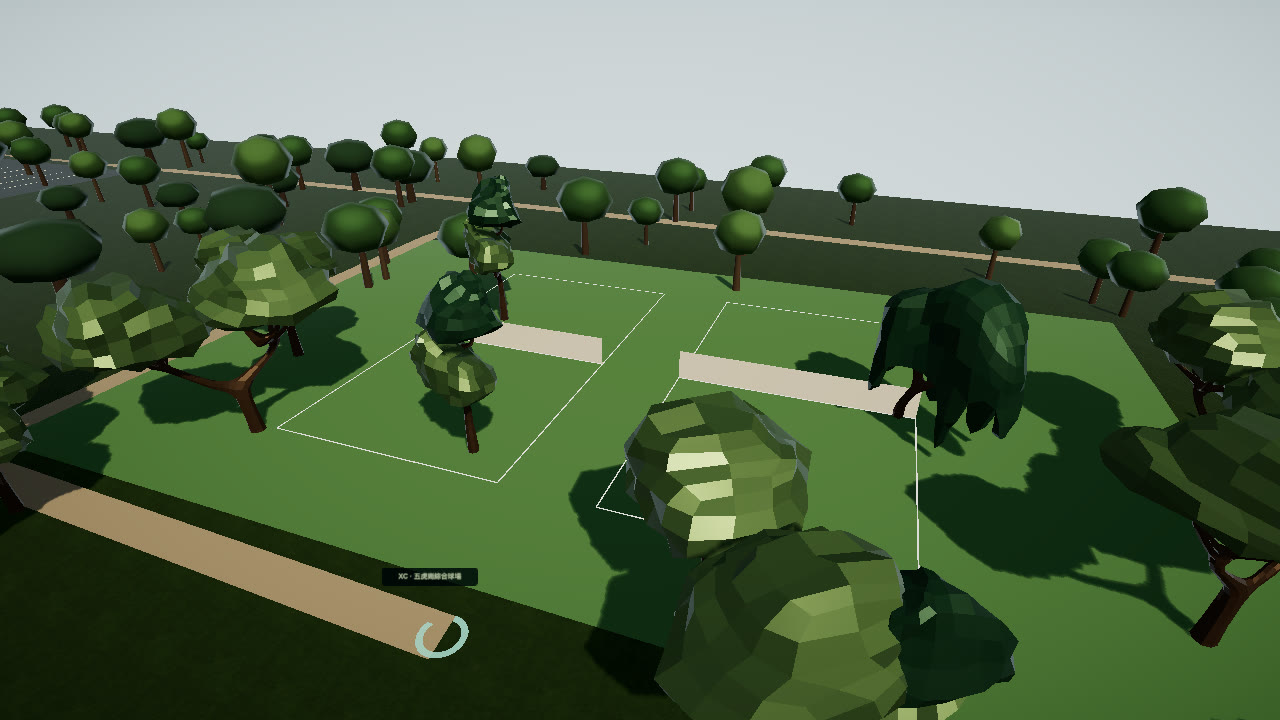
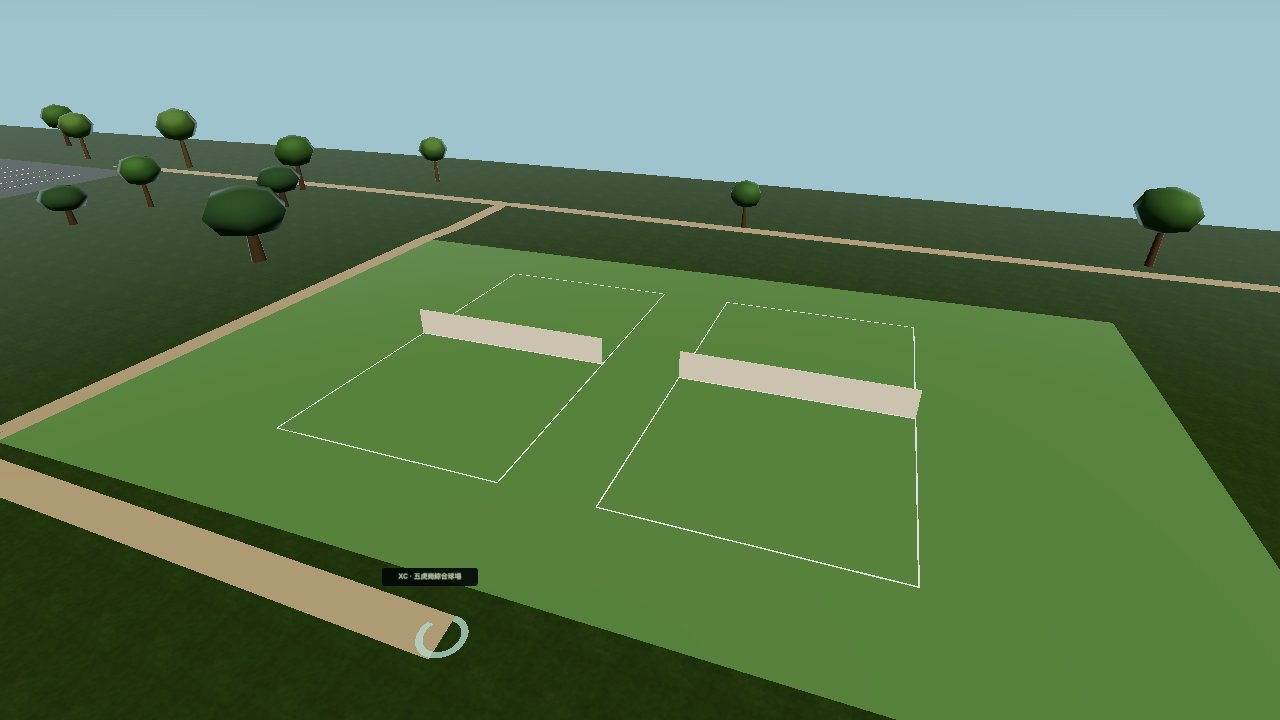
Record the two-court markings on this host.
The Wuhu shot is from this machine. Wet court colours stay, and the lines sit inside the grass.

diff --git a/docs/integration/HANDOFF.md b/docs/integration/HANDOFF.md
@@ -4,18 +4,18 @@
 
 ## 現在
 
-- 這次讓沒有貼圖的球場、停車場和跑道在雨後把顏色乘小。接到 `origin/main` `7c85a42`。遊戲程式是 `560f21d`。
-- 晴天顏色不變。1280×720 與 390×780 都看得到五虎崗雨後較深，樹仍在場外。不是實測日照。這一輪不畫 PR #135 的球場線。
-- 跨系統路線在 `http://127.0.0.1:8147/` 通過：大門經驗 20、筆記 19；補給後經驗 44、筆記 21、學期期中；突襲小考 65→45；第二客戶端看到期中；`revision_conflict`；斷線時雲端經驗停在 47；登出 401。`pageErrors` 空。
-- PR #122 現在是 `494989e`。對 `main` 的差只有 `docs/full-integration`、他們的路線腳本和兩行 CSS。不要單獨合併，也不要帶進 `docs/full-integration`。
+- 這次把五虎崗畫成兩塊有邊線、中線和球網的場，排球場有一圈邊線。接到 `origin/main` `9dd707e`。遊戲程式是 `27ceb69`。
+- 標線都在草皮裡面。1280×720 與 390×780 都看得到。雨後草皮仍較深，標線還在。樹仍在場外。標線尺寸仍是 estimated。
+- 跨系統路線在 `http://127.0.0.1:8148/` 通過：大門經驗 20、筆記 19；補給後經驗 44、筆記 21、學期期中；突襲小考 65→45；第二客戶端看到期中；`revision_conflict`；斷線時雲端經驗停在 47；登出 401。`pageErrors` 空。
+- PR #122 現在是 `2f7667b`。遊戲差是測試用的 `getCamera`、他們的七區路點腳本，以及窄螢幕互動鈕 `bottom: 176px`。觸控窄螢幕後面那條規則仍是 `100px`。路點本身已經在主遊戲裡。不要單獨合併，也不要帶進 `docs/full-integration`。
 
-## 本輪已驗證（雨後場地）
+## 本輪已驗證（綜合球場標線）
 
-`node --test scripts/wet-surface.test.mjs` 通過。`npm test` 311 通過。`node --experimental-transform-types scripts/integration-route.mjs` 走 `http://127.0.0.1:8147/`。幀時間是 SwiftShader。不是實測日照。
+`node --test scripts/court-lines.test.mjs` 通過。`npm test` 312 通過。`node --experimental-transform-types scripts/integration-route.mjs` 走 `http://127.0.0.1:8148/`。幀時間是 SwiftShader。標線尺寸是 estimated。
 
 ## 下一步
 
-先 `git fetch`。雨後場地已在這條整合分支，遊戲程式是 `560f21d`。靜態產物是 `AdventureApp-Bw3-LFcW.js`。PR #32 的 `1fc5887` 仍不合併。整合 PR 是 #147。來源 `41771bb` 不是祖先，不要單獨合併 PR #142。不要單獨合併 PR #122。PR #146、#144、#143、#141、#140、#138、#139、#131、#137、#128、#133、#129、#110、#108、#107、#105、#102、#101、#99、#97、#96、#93、#91、#90、#88、#86、#85、#82、#80、#79、#77、#75、#73、#72、#70、#68、#67、#65、#63、#61、#59、#56、#54、#53、#51 的程式已經在更早的整合裡，也不要再單獨合併。下一項是五虎球場畫線（PR #135，`06a75dc`）。它和這一輪都改 `ContextStructures.tsx`，要同時留下雨後的顏色和兩塊球場的線。接著看涼亭（PR #145，`193f29d`），它也改 `ContextStructures.tsx` 和植栽。然後是坡道欄杆（PR #132，`1dce114`）、海事博物館船首（PR #127，`d0fd98b`）、會文館（PR #111，`412b130`）、司令臺台面（PR #113，`f2750c7`）、低畫質行人（PR #115，`9672ff3`）、美術傳輸預算（PR #116，`9a3d594`）、宮燈大道四個時段（PR #118，`266e4b7`）、宮燈鏡頭（PR #121，`3ce5f17`）、路燈燈頭（PR #124，`2b45515`）。先看它們目前的 head，再各自整合，不要單獨合併。三角形仍用 `7507c59` 那次重測。
+先 `git fetch`。標線已接到這條整合分支，遊戲程式是 `27ceb69`。靜態產物是 `AdventureApp-DCYaPlp2.js`。PR #32 的 `1fc5887` 仍不合併。來源 `06a75dc` 不是祖先，不要單獨合併 PR #135。不要單獨合併 PR #122。PR #147、#146、#144、#143、#142、#141、#140、#138、#139、#131、#137、#128、#133、#129、#110、#108、#107、#105、#102、#101、#99、#97、#96、#93、#91、#90、#88、#86、#85、#82、#80、#79、#77、#75、#73、#72、#70、#68、#67、#65、#63、#61、#59、#56、#54、#53、#51 的程式已經在更早的整合裡，也不要再單獨合併。下一項是涼亭（PR #145，`193f29d`），它改 `ContextStructures.tsx` 和植栽。然後是坡道欄杆（PR #132，`1dce114`）、海事博物館船首（PR #127，`d0fd98b`）、會文館（PR #111，`412b130`）、司令臺台面（PR #113，`f2750c7`）、低畫質行人（PR #115，`9672ff3`）、美術傳輸預算（PR #116，`9a3d594`）、宮燈大道四個時段（PR #118，`266e4b7`）、宮燈鏡頭（PR #121，`3ce5f17`）、路燈燈頭（PR #124，`2b45515`）。先看它們目前的 head，再各自整合，不要單獨合併。三角形仍用 `7507c59` 那次重測。
 
 INT-01 維持不動。不要新增學期選擇，也不要做第二套獎勵帳。
 

diff --git a/docs/integration/STATUS.md b/docs/integration/STATUS.md
@@ -1,13 +1,13 @@
 # 整合狀態
 
-更新：2026-11-12。沒有貼圖的球場、停車場和跑道在雨後把顏色乘小。晴天顏色不變。樹仍留在場外。不是實測日照。幀時間仍是 SwiftShader。
+更新：2026-11-12。五虎崗綜合球場畫成兩塊有邊線、中線和球網的場。排球場有一圈邊線。標線尺寸仍是估計。雨後草皮仍會變暗。幀時間仍是 SwiftShader。
 本文件只記實際程式、PR 與本輪驗收。不把 M1 或 M2 當成整款遊戲完成，也不以 PR 或文件數量估算完成率。
 
 ## 三條線
 
 | 線 | 目前成果 | 開放 PR | 狀態 |
 | --- | --- | --- | --- |
-| 美術與場景 | 球場、停車場和跑道在雨後變暗、變滑。晴天顏色不變。樹仍留在場外。 | 來源 PR #142 `41771bb`。整合 PR #147 | `merged` |
+| 美術與場景 | 五虎崗是兩塊有邊線和球網的場。排球場有邊線。雨後草皮仍會變暗。 | 來源 PR #135 `06a75dc`。整合尚未開 PR | `verified` |
 | 後端 | 雲端存檔接受既有背包的 `loadout`、`gear`、隔離物品和手持設施，並拒絕白名單以外的欄位。沒有這些欄位的舊存檔仍可上傳。 | 來源 `a76918e`。整合 PR #144 | `merged` |
 | 內容 | 十二名虛構的教授與系主任可以在估計的崗位交談。跨學院的選擇會改後面的句子。獎勵仍進既有背包，而且只記一次。 | 來源 PR #131 `246eadf`。整合 PR #139 | `merged` |
 
@@ -15,15 +15,15 @@
 
 ## 本輪範圍
 
-沒有貼圖的球場、停車場和跑道在雨後把顏色乘小，亮度下降、粗糙度下降。晴天維持原來的綠、灰和磚紅。1280×720 與 390×780 都看得到五虎崗雨後較深的草皮和雨絲。樹仍在場外。不是實測日照。這一輪不畫 PR #135 的球場線。
+五虎崗綜合球場是兩塊有邊線、中線和球網的場。排球場有一圈邊線。標線都在草皮裡面。1280×720 與 390×780 都看得到兩塊白線場，樹仍在場外。雨後草皮較深，標線還在。標線尺寸仍是 estimated。田徑場和停車場沒有這些線。
 
 ## 路線
 
 | 項目 | 狀態 |
 | --- | --- |
-| 已製作 | 雨後的球場、停車場和跑道把顏色乘小 |
-| 已驗證 | 靜態頁 `http://127.0.0.1:8147/`。1280×720 與 390×780 看得到五虎崗雨後較深。`npm test` 311 通過。跨系統路線在同一站，`pageErrors` 空 |
-| 已合併 | 是。遊戲程式 `560f21d`。整合 PR #147。`main` 未受保護、沒有必須的 check |
+| 已製作 | 五虎崗兩塊標線場，排球場一圈邊線 |
+| 已驗證 | 靜態頁 `http://127.0.0.1:8148/`。1280×720 與 390×780 看得到兩塊白線場。`npm test` 312 通過。跨系統路線在同一站，`pageErrors` 空 |
+| 已合併 | 否。遊戲程式 `27ceb69`。`main` 未受保護、沒有必須的 check |
 | 已部署 | 否 |
 
 ## 尚未完成的遊戲範圍

diff --git a/docs/integration/CONTRACTS.md b/docs/integration/CONTRACTS.md
@@ -70,7 +70,7 @@ URL 帶內容雜湊。幾何與 atlas 共享。卸載只走 `releaseArtInstance`
 
 教授與系主任也走這份存檔和既有 `grantQuestReward`。十二名都是虛構角色，崗位是門口外推的估計位置。同一個任務只付一次。`MAIN_INTEGRATION` 仍是 false。
 
-路燈中心若落在實體裡，會沿最近的一面推到牆外 1.2 m。圖書館名牌朝南，貼在南牆外側。燈位仍是 estimated。圖書館前的坡道從廣場升約 1.05 m 到台基，人走在這道坡上，坡面網格用同一個高度。坡度仍是 estimated。散佈的樹不種進球場、田徑場和停車場，外緣再留 3 m。植株位置仍是 estimated。沒有貼圖的球場、停車場和跑道在雨後把顏色乘小，亮度下降、粗糙度下降。晴天顏色不變。這些顏色比材質庫的濕灰還深，所以不把灰色混進去。不是實測日照。
+路燈中心若落在實體裡，會沿最近的一面推到牆外 1.2 m。圖書館名牌朝南，貼在南牆外側。燈位仍是 estimated。圖書館前的坡道從廣場升約 1.05 m 到台基，人走在這道坡上，坡面網格用同一個高度。坡度仍是 estimated。散佈的樹不種進球場、田徑場和停車場，外緣再留 3 m。植株位置仍是 estimated。沒有貼圖的球場、停車場和跑道在雨後把顏色乘小，亮度下降、粗糙度下降。晴天顏色不變。這些顏色比材質庫的濕灰還深，所以不把灰色混進去。不是實測日照。五虎崗綜合球場是兩塊有邊線、中線和球網的場，排球場有一圈邊線。標線都在草皮裡面。標線尺寸仍是 estimated。田徑場和停車場沒有這些線。
 
 同一條高畫質路線在遊戲程式 `7507c59` 的靜態頁重測：標題 1,204,683、戶外 1,562,527、戰鬥 1,495,745、返回 1,437,689，都低於 1.6 M。室內 46,548。幀時間是這台 SwiftShader，不是手機或 RTX 3060。手機圖示只改 CSS，沒有重測三角形。
 

diff --git a/docs/integration/VALIDATION.md b/docs/integration/VALIDATION.md
@@ -661,6 +661,14 @@ PR #122 的 head 在這輪又改到 `48b1ac6`。和 `main` 比，遊戲程式沒
 
 瀏覽器 `http://127.0.0.1:8147/`。1280×720 與 390×780 都看得到五虎崗：晴天草皮較淺，雨後較深，畫面有雨絲。頁面無錯誤。同一站跨系統路線通過：大門經驗 20、筆記 19；補給後經驗 44、筆記 21、學期期中；突襲小考 65→45、經驗停在 44；存檔重載經驗 44、筆記 21、科系 `science-理學院-2`；revision 1；第二客戶端看到期中；`revision_conflict`；斷線時雲端經驗是 47；登出 401。`pageErrors` 空。
 
+## 綜合球場標線（本輪）
+
+來源 `06a75dc` 接到 `9dd707e`。美術文件留到第 53 輪，這一輪記成第 54 輪。雨後的顏色留在同一支結構檔上。
+
+五虎崗綜合球場是兩塊有邊線、中線和球網的場。排球場有一圈邊線。每條線都在草皮裡面。田徑場和停車場沒有這些線。標線尺寸仍是 estimated。樹仍留在場外。`npm run typecheck` 通過。`npm test` 312 通過。`npm run build:site` 通過，產物 `AdventureApp-DCYaPlp2.js`。
+
+瀏覽器 `http://127.0.0.1:8148/`。1280×720 與 390×780 都看得到兩塊白線場。雨後草皮較深，標線還在。頁面無錯誤。同一站跨系統路線通過：大門經驗 20、筆記 19；補給後經驗 44、筆記 21、學期期中；突襲小考 65→45、經驗停在 44；存檔重載經驗 44、筆記 21、科系 `science-理學院-2`；revision 1；第二客戶端看到期中；`revision_conflict`；斷線時雲端經驗是 47；登出 401。`pageErrors` 空。
+
 ## 本輪沒有驗的項目
 
 - 手機與真機上的雲端面板點擊。本輪在 Node 開發頁讀到面板文字，沒有在手機上操作
